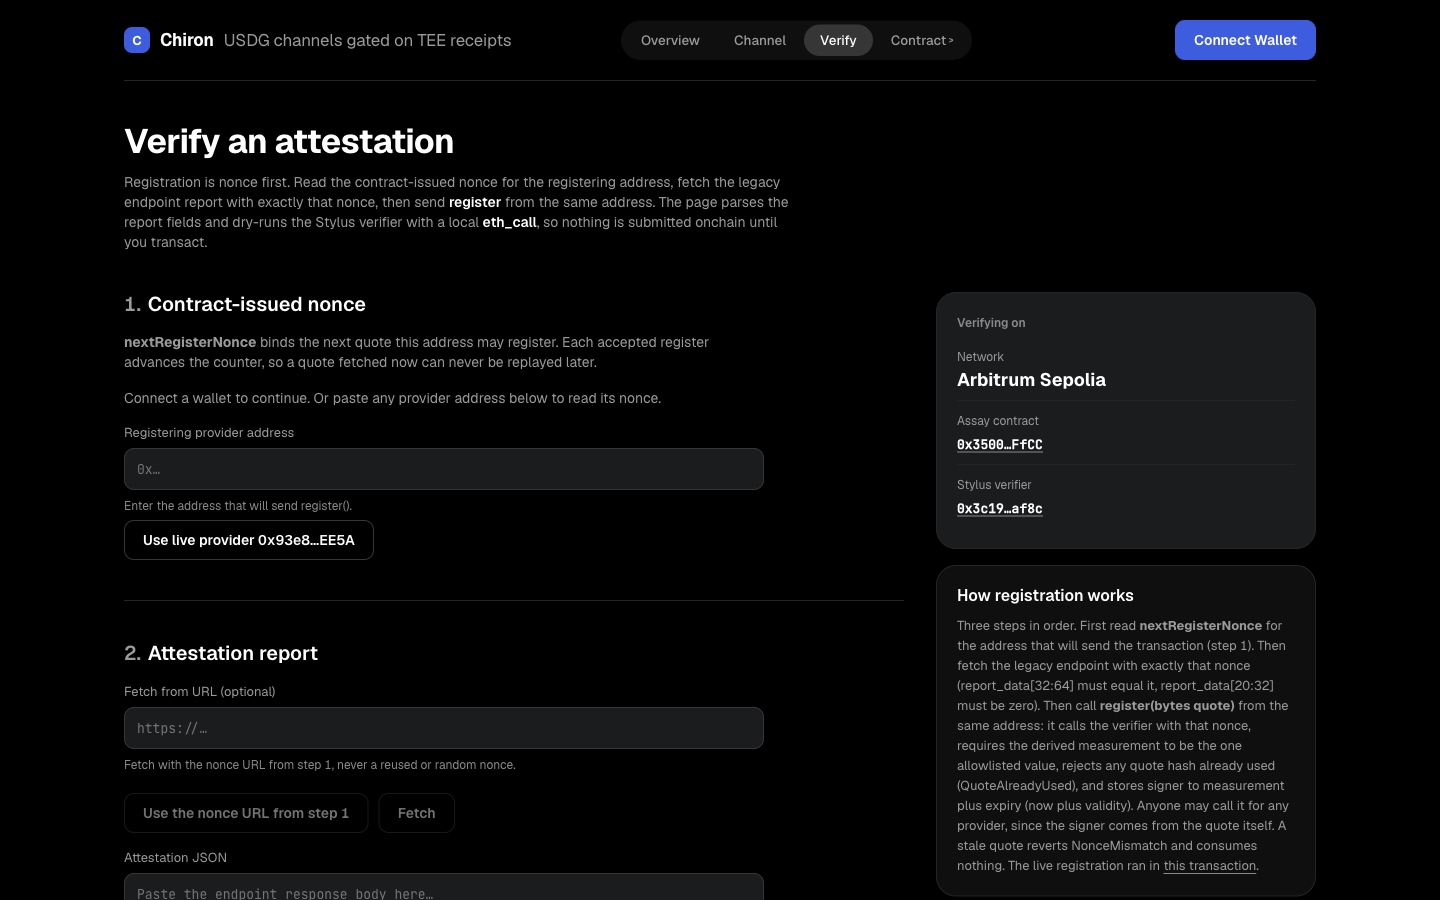
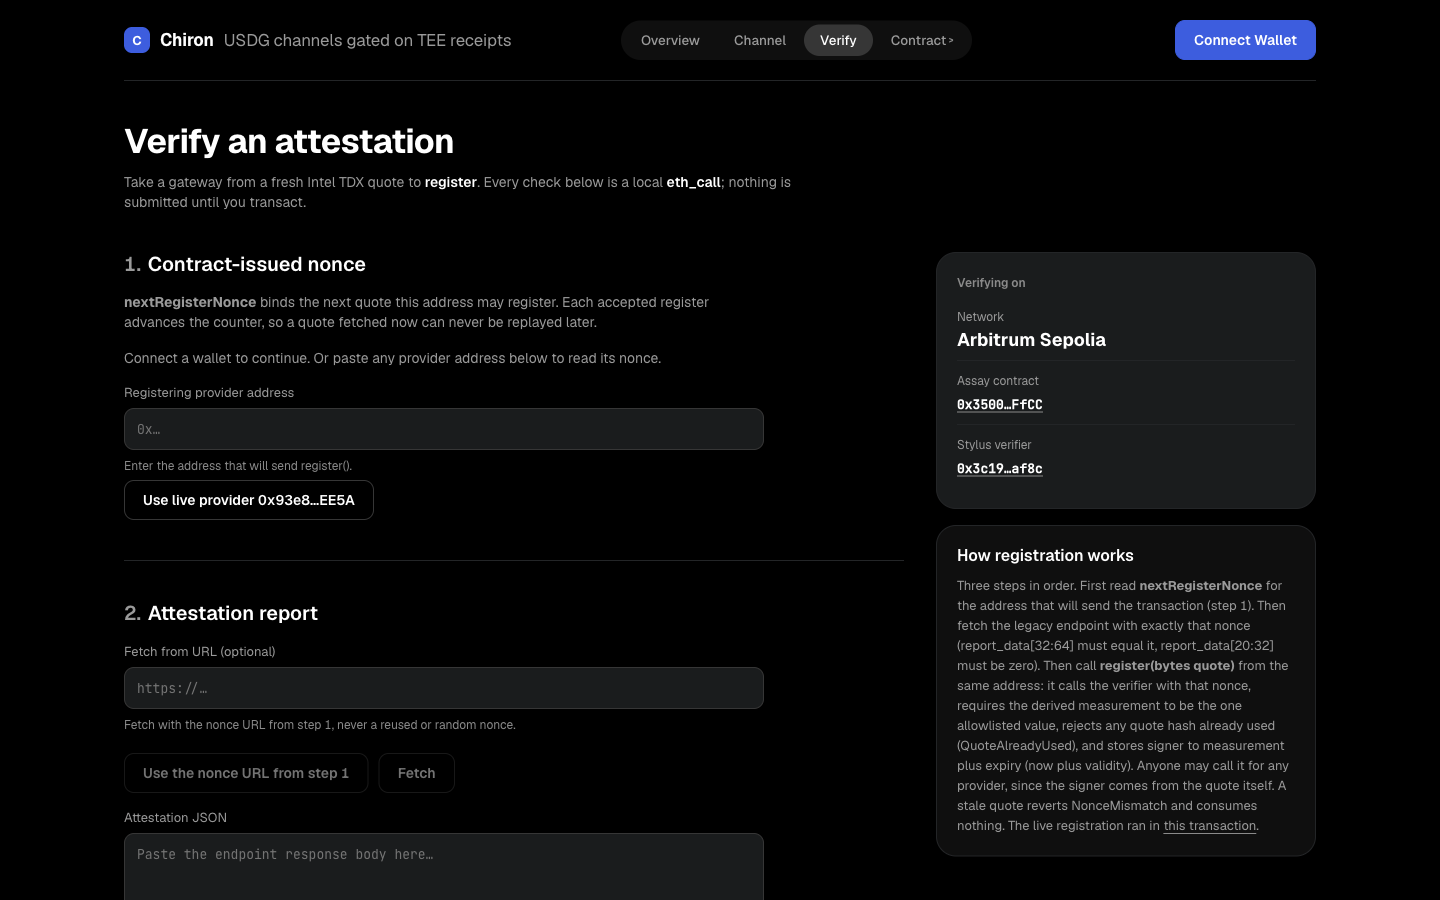
web: Verify renders all three steps before a wallet or report exists; actions gate on the missing input

diff --git a/web/src/pages/Verify.tsx b/web/src/pages/Verify.tsx
@@ -293,10 +293,8 @@ export function Verify() {
         <div>
           <h1>Verify an attestation</h1>
           <p className="lede">
-            Registration is nonce first. Read the contract-issued nonce for the registering address, fetch the legacy
-            endpoint report with exactly that nonce, then send <b>register</b> from the same address. The page parses
-            the report fields and dry-runs the Stylus verifier with a local <b>eth_call</b>, so nothing is submitted
-            onchain until you transact.
+            Take a gateway from a fresh Intel TDX quote to <b>register</b>. Every check below is a local{' '}
+            <b>eth_call</b>; nothing is submitted until you transact.
           </p>
         </div>
       </div>
@@ -465,10 +463,10 @@ export function Verify() {
         </section>
       )}
 
-      {parsed?.quoteHex && (
+      {(
         <section className="section" aria-labelledby="v-dry">
           <div className="section-head">
-            <h2 id="v-dry"><span className="step-n">3.</span> Contract dry run</h2>
+            <h2 id="v-dry"><span className="step-n">3.</span> Dry-run verify and register</h2>
           </div>
           <p className="sub">
             Calls <b>verify(bytes, bytes32)</b> on the Stylus verifier ({short(VERIFIER_ADDRESS)}) via eth_call with
@@ -477,11 +475,12 @@ export function Verify() {
             <b>register</b> transaction would hit.
           </p>
           {!contractNonce && <p className="note">Set a provider address in step 1 first, so the dry run can pass its current nonce.</p>}
+          {contractNonce && !parsed?.quoteHex && <p className="note">Paste or fetch the attestation report in step 2 first; the dry run needs its quote bytes.</p>}
           <div className="actions">
-            <button className="btn" onClick={dryRunVerify} disabled={dryRunBusy || !client || !contractNonce} type="button">
+            <button className="btn" onClick={dryRunVerify} disabled={dryRunBusy || !client || !contractNonce || !parsed?.quoteHex} type="button">
               {dryRunBusy ? 'Calling…' : 'Dry-run verify'}
             </button>
-            <button className="btn ghost" onClick={simulateRegister} disabled={registerBusy || !client || !chain.ready} type="button">
+            <button className="btn ghost" onClick={simulateRegister} disabled={registerBusy || !client || !chain.ready || !parsed?.quoteHex} type="button">
               {registerBusy ? 'Simulating…' : 'Simulate register'}
             </button>
           </div>
